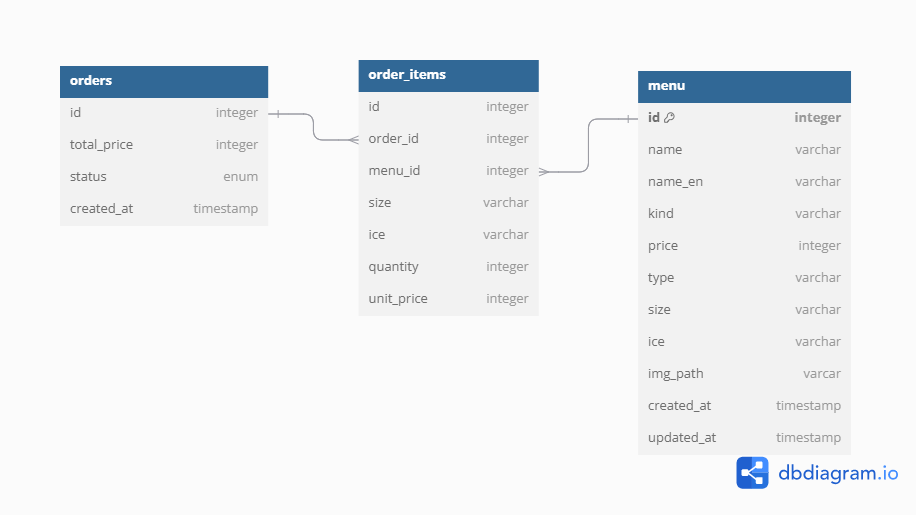
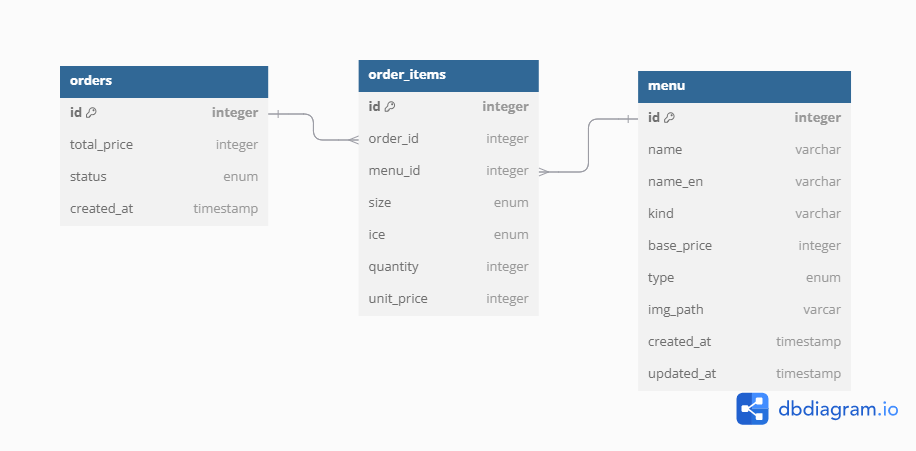
improove db schema and feat client menu get request

diff --git a/server/models.py b/server/models.py
@@ -4,6 +4,29 @@ from enum import Enum
 db = SQLAlchemy()
 
 
+class Status(Enum):
+    pending = "pending"
+    completed = "completed"
+    cancelled = "cancelled"
+
+
+class Type(Enum):
+    ice = "ice"
+    hot = "hot"
+
+
+class Size(Enum):
+    small = "small"
+    medium = "medium"
+    large = "large"
+
+
+class Ice(Enum):
+    no = "no"
+    half = "half"
+    normal = "normal"
+
+
 # 모델 정의
 class Menu(db.Model):
     __tablename__ = "menu"
@@ -12,10 +35,8 @@ class Menu(db.Model):
     name = db.Column(db.String(50), nullable=False)
     name_en = db.Column(db.String(50), nullable=False)
     kind = db.Column(db.String(50), nullable=False)
-    price = db.Column(db.Integer, nullable=False)
-    type = db.Column(db.String(20), nullable=True)
-    size = db.Column(db.String(20), nullable=True)
-    ice = db.Column(db.String(20), nullable=True)
+    base_price = db.Column(db.Integer, nullable=False)
+    type = db.Column(db.Enum(Type), nullable=True)
     img_path = db.Column(db.String(255), nullable=False)
 
     # 모델 클래스를 dict 형태로 변환하는 메소드
@@ -25,21 +46,13 @@ class Menu(db.Model):
             "name": self.name,
             "name_en": self.name_en,
             "kind": self.kind,
-            "price": self.price,
-            "type": self.type.split(", ") if self.type else None,
-            "size": self.size.split(", ") if self.size else None,
-            "ice": self.ice.split(", ") if self.ice else None,
+            "base_price": self.base_price,
+            "type": self.type.value,
             "img_path": self.img_path,
         }
 
     def __repr__(self):
         return f"<Menu {self.name}>"
-
-
-class Status(Enum):
-    PENDING = "pending"
-    COMPLETED = "completed"
-    CANCELLED = "cancelled"
 
 
 class Orders(db.Model):
@@ -66,8 +79,8 @@ class OrderItems(db.Model):
     id = db.Column(db.Integer, primary_key=True)
     order_id = db.Column(db.Integer, db.ForeignKey("orders.id"), nullable=False)
     menu_id = db.Column(db.Integer, db.ForeignKey("menu.id"), nullable=False)
-    size = db.Column(db.String(20), nullable=True)
-    ice = db.Column(db.String(20), nullable=True)
+    size = db.Column(db.Enum(Size), nullable=False)
+    ice = db.Column(db.Enum(Ice), nullable=False)
     quantity = db.Column(db.Integer, default=1, nullable=False)
     # unit_price = db.Column(db.Integer, nullable=False)
 
@@ -78,4 +91,9 @@ class OrderItems(db.Model):
 
     @property
     def unit_price(self):
-        return self.menu.price * self.quantity if self.menu else 0
+        size_option = 1
+        if self.size == Size.MEDIUM:
+            size_option *= 1.5
+        elif self.size == Size.LARGE:
+            size_option *= 2
+        return self.menu.base_price * size_option * self.quantity

diff --git a/server/request.py b/server/request.py
@@ -1,5 +1,7 @@
 import requests
 import json
+from enum import Enum
+import random
 
 url = "http://127.0.0.1:5000/menu"
 headers = {"Content-Type": "application/json; charset=utf-8"}
@@ -10,16 +12,14 @@ def get_menu():
     print(response.text)
 
 
-def post_menu():
+def post_menu(name, name_en, kind, base_price, type, img_path):
     data = {
-        "name": "아메리카노",
-        "name_en": "americano",
-        "kind": "coffee",
-        "price": 3000,
-        "type": ["ice", "hot"],
-        "size": ["tall", "grande", "venti"],
-        "ice": ["no", "half", "regular"],
-        "img_path": "./img/americano",
+        "name": name,
+        "name_en": name_en,
+        "kind": kind,
+        "base_price": base_price,
+        "type": type,
+        "img_path": img_path,
     }
     response = requests.post(url, headers=headers, data=json.dumps(data))
     print(response.text)
@@ -30,7 +30,7 @@ def update_menu():
         "name": "에스프레소",
         "name_en": "espresso",
         "kind": "coffee",
-        "price": 3000,
+        "base_price": 3000,
         "img_path": "./img/espresso",
     }
     response = requests.put(f"{url}/1", headers=headers, data=json.dumps(data))
@@ -42,4 +42,10 @@ def delete_menu():
     print(response.text)
 
 
-post_menu()
+with open("server/coffee.csv", "r", encoding="utf-8") as file:
+    for line in file:
+        name, name_en, kind, type, img_path = line.split(",")
+        img_path = img_path.strip()
+        base_price = random.choice([3000, 4000, 4500, 5500])
+        # print(base_price)
+        post_menu(name, name_en, kind, base_price, type, img_path)

diff --git a/server/scrape.py b/server/scrape.py
@@ -1,0 +1,48 @@
+from playwright.sync_api import sync_playwright
+import time
+from bs4 import BeautifulSoup
+from config import url
+
+
+# 찾아낼것 =
+
+p = sync_playwright().start()
+browser = p.chromium.launch(headless=False)
+page = browser.new_page()
+page.goto(url)
+time.sleep(2)
+menus = []
+
+
+def collect_menu_info(number, kind):
+    page.click(f"input[value='{number}']", force=True)
+    time.sleep(1)
+    content = page.content()
+    page.click(f"input[value='{number}']", force=True)
+    soup = BeautifulSoup(content, "html.parser")
+    menu_list = soup.select("#menu_list > li")
+
+    for menu in menu_list:
+        modal = menu.find("div", class_="inner_modal")
+        menu_data = {
+            "img_url": menu.find("img")["src"],
+            "type": menu.find("div", class_="cont_gallery_list_label").text.lower(),
+            "name": modal.find("div", class_="cont_text_title").text.strip(),
+            "name_en": modal.find("div", class_="cont_text_info").text.strip(),
+            "kind": kind,
+        }
+        menus.append(menu_data)
+
+
+collect_menu_info(1, "coffee")
+collect_menu_info(2, "tee")
+collect_menu_info(4, "smoothie")
+collect_menu_info(5, "decaffeine")
+collect_menu_info(6, "beverage")
+
+with open("server/coffee.csv", "w", encoding="utf-8") as file:
+    file.write("name,name_en,kind,type,img_path\n")
+    for menu in menus:
+        file.write(
+            f"{menu["name"]},{menu["name_en"]},{menu["kind"]},{menu["type"]},{menu["img_url"]}\n"
+        )

diff --git a/server/app.py b/server/app.py
@@ -27,10 +27,8 @@ def add_menu():
         name=menu_json.get("name"),
         name_en=menu_json.get("name_en"),
         kind=menu_json.get("kind"),
-        price=menu_json.get("price"),
-        type=", ".join(menu_json.get("type")) if menu_json.get("type") else None,
-        size=", ".join(menu_json.get("size")) if menu_json.get("size") else None,
-        ice=", ".join(menu_json.get("ice")) if menu_json.get("ice") else None,
+        base_price=menu_json.get("base_price"),
+        type=menu_json.get("type"),
         img_path=menu_json.get("img_path"),
     )
     db.session.add(menu_item)
@@ -48,10 +46,8 @@ def update_menu(menu_id):
     menu_item.name = menu_json.get("name")
     menu_item.name_en = menu_json.get("name_en")
     menu_item.kind = menu_json.get("kind")
-    menu_item.price = menu_json.get("price")
-    menu_item.type = ", ".join(menu_json.get("type")) if menu_json.get("type") else None
-    menu_item.size = ", ".join(menu_json.get("size")) if menu_json.get("size") else None
-    menu_item.ice = ", ".join(menu_json.get("ice")) if menu_json.get("ice") else None
+    menu_item.base_price = menu_json.get("base_price")
+    menu_item.type = menu_json.get("type")
     menu_item.img_path = menu_json.get("img_path")
     db.session.add(menu_item)
     db.session.commit()

diff --git a/README.md b/README.md
@@ -1,4 +1,8 @@
-# flask api server
+# Kiosk application
+
+## 개요
+
+서버-클라이언트 모델로 작동하는 키오스크 어플리케이션
 
 ## 목차
 
@@ -41,15 +45,15 @@ REST API로 작성하였으며, Menu와 Order 리소스에 관한 CRUD 기능을
 
 ## To-Do List
 
-- [ ] GET /order
-- [ ] POST /order
-- [ ] PUT /order
-- [ ] type, ice, size에 대한 옵션 테이블을 생성하고, 기존 메뉴 테이블과 관계 설정하기
-- [ ] GET /image/:id
-- [ ] 서버사이드 예외처리
-- [ ] html, css 주석
-- [ ] Javascript 구현
-- [ ] Electron UI, UX 구현
+- [ ] **Electron UI, UX 구현**: 클라이언트 로직 구현
+- [ ] **이미지 처리**: 사이즈 조절, 누끼 따기
+- [ ] **GET /image/:id**: 이미지 처리 로직 구현
+- [ ] **서버사이드 예외처리**: 오류 처리 로직 구현
+- [ ] **GET /order**: 주문 내역을 가져오는 API 구현
+- [ ] **POST /order**: 새로운 주문을 생성하는 API 구현
+- [ ] **PUT /order**: 주문 수정 API 구현
+- [ ] **html, css 주석**: 주석 추가
+- [ ] **css의 commit 클래스 리팩토링**: 코드 정리
 
 ## 코드 컨벤션
 
@@ -57,34 +61,37 @@ REST API로 작성하였으며, Menu와 Order 리소스에 관한 CRUD 기능을
 | ---------------------------- | -------------------- |
 | Class, Exception             | **PascalCase**       |
 | Function, Variable, DB Table | **snake_case**       |
+| CSS Class                    | **kebab-case**       |
 | Constant                     | **UPPER_SNAKE_CASE** |
 | Indent                       | **Tab**              |
 
 ## 패키지 구조
 
 ```
-├── assets
-├── client
-│   ├── styles / Style sheets
-│   │   ├── components  / Components style sheets
-│   │   └── screens / Screen style sheets
+├── 📁 assets
+├── 📁 client
+│   ├── 📁 styles / Style sheets
+│   │   ├── 📁 components  / Components style sheets
+│   │   └── 📁 screens / Screen style sheets
 │   ├── index.html / Web entry
-│   └── main.js / Electron entry
-├── server
+│   ├── render.js / Electron renderer processer entry
+│   └── main.js / Electron main processer entry
+├── 📁 server
 │   ├── app.py / Flask app
 │   ├── models.py / ORM model
 │   ├── request.py / HTTP request test
 │   ├── config.py / Initial option
+│   ├── scrape.py / Scrape data from ---- coffee hompage (sorry)
 │   └── requirements.txt / Package Dependency
 ├── README.md
 ```
 
 ## 기술 스택
 
-- Flask
-- MySQL
-- HTML, CSS
-- Electron
+- **Flask**: Python 기반의 경량 웹 프레임워크로, 빠른 개발과 REST API 구축에 적합합니다.
+- **MySQL**: 관계형 데이터베이스로, 주문 및 메뉴 데이터를 효율적으로 관리합니다.
+- **HTML, CSS**: 사용자 인터페이스를 구축하기 위한 기본 웹 기술입니다.
+- **Electron**: 데스크탑 환경에서 웹 기반 UI를 제공하는 Node.js 패키지입니다.
 
 ## 실행 방법
 
@@ -142,3 +149,8 @@ response.data 에 들어온 JSON 응답이 인코딩이 깨져서 들어왔다.
 
 jsonify를 설정하기 위해서 JSON_AS_ASCII = False 설정을 넣었으나 제대로 작동이 되지 않아
 그냥 json 모듈을 사용해서 ensure_ascii=False 옵션을 주고 Response를 같이 사용해서 응답하였다.
+
+### git bash 환경 변수 문제 해결
+
+git bash 에서 python 버전이 달라서 윈도우 환경 변수의 패스를 자꾸 건드려 보았으나 효과가 없었다.
+~/ 디렉토리의 .bashrc와 .bash_profile 을 편집하여 환경변수를 등록, 저장, 적용해서 해결하였다.
